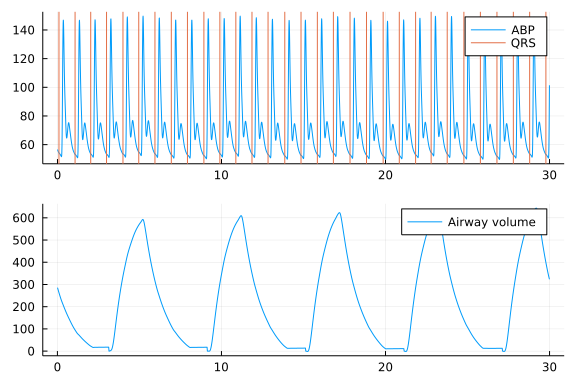
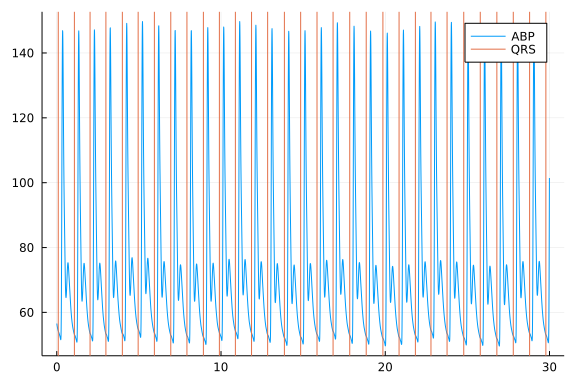
remove unused variable, vent

Changed region(s): [[0.0, 0.0312, 0.9688, 0.9688], [0.375, 0.9375, 0.4062, 0.9688], [0.0938, 0.9375, 0.125, 0.9688]]

diff --git a/demo/parameter_estimation/README.md b/demo/parameter_estimation/README.md
@@ -17,12 +17,11 @@ using CSV, DataFrames, DataFramesMeta
 
 ## Load observed data
 
-Load arterial blood pressure waveform, ventilator pressure and volume waveform, and 
+Load arterial blood pressure waveform and 
 timings of QRS-complexes (initiation of the heart beat).
 
 ```julia
 abp = CSV.File("data/abp.csv") |> DataFrame 
-vent = CSV.File("data/vent.csv") |> DataFrame
 qrs = CSV.File("data/qrs.csv") |> DataFrame
 
 # Convert pressure to Pascal
@@ -30,10 +29,7 @@ mmHg2pascal(mmHg) = mmHg * 133.322
 @transform!(abp, :ABP_pascal = mmHg2pascal.(:ABP))
 
 abp_plot = plot(abp.seconds, abp.ABP, labels = "ABP");
-vline!(abp_plot, qrs.seconds, labels = "QRS");
-airway_vol_plot = plot(vent.seconds, vent.volume, labels = "Airway volume");
-
-plot(abp_plot, airway_vol_plot, layout = (2,1))
+vline!(abp_plot, qrs.seconds, labels = "QRS")
 ```
 
 ![](figures/parameter_estimation_2_1.png)
